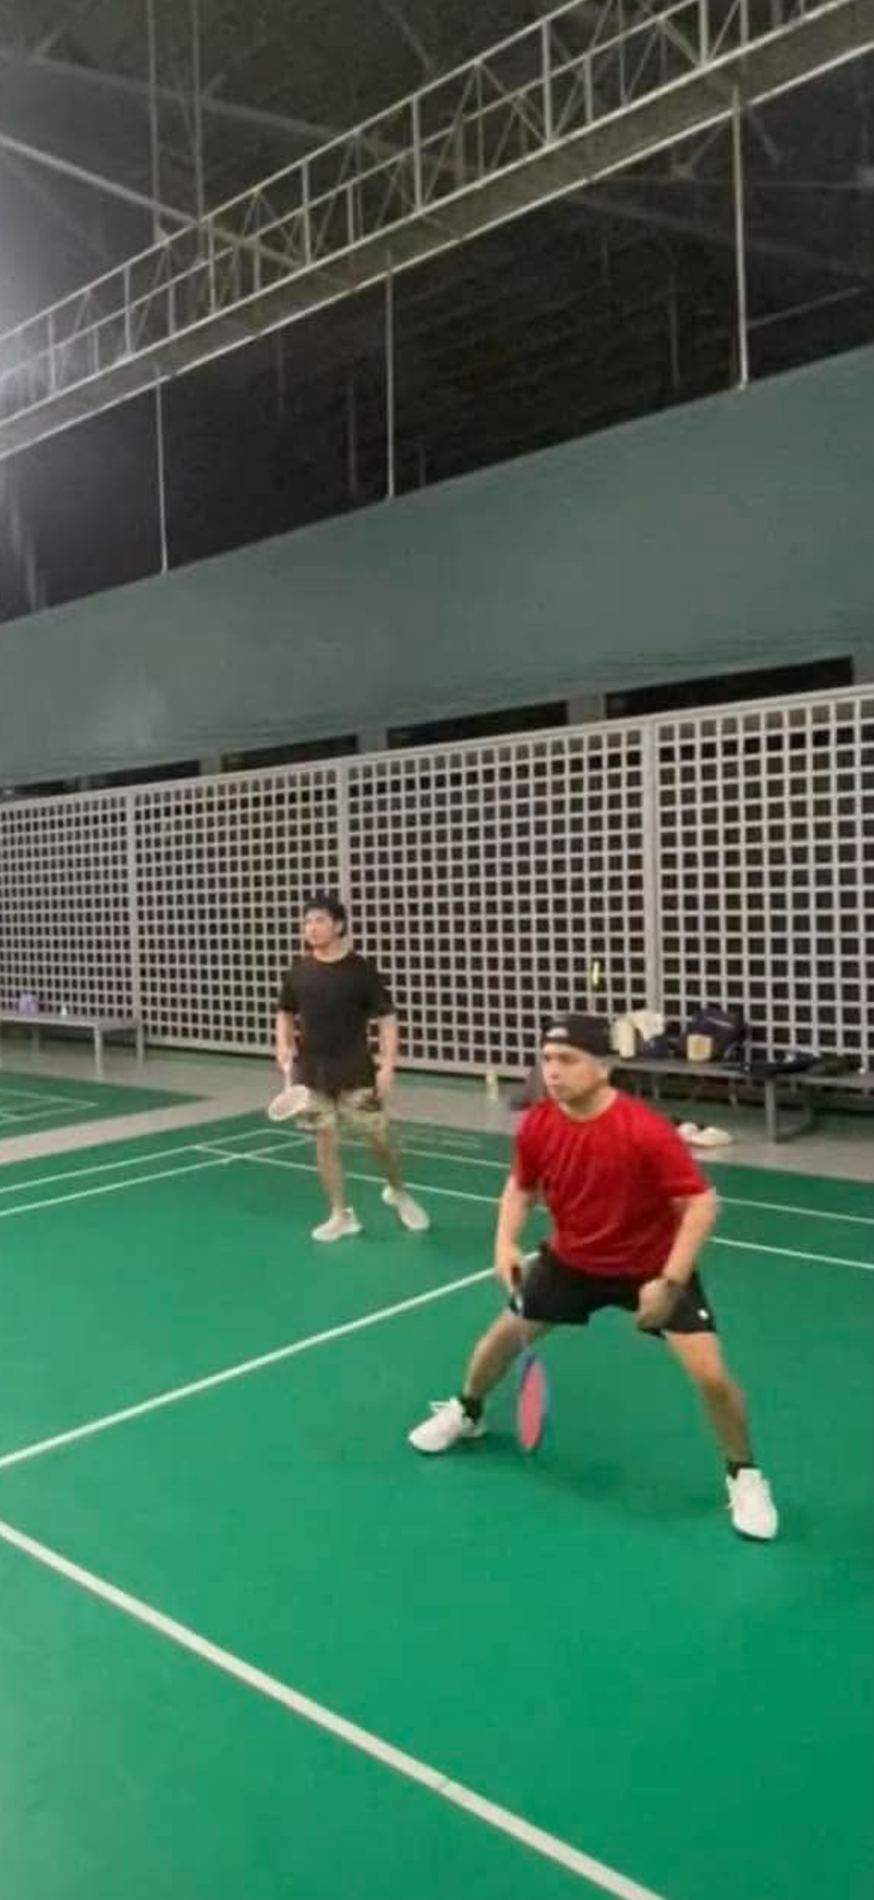
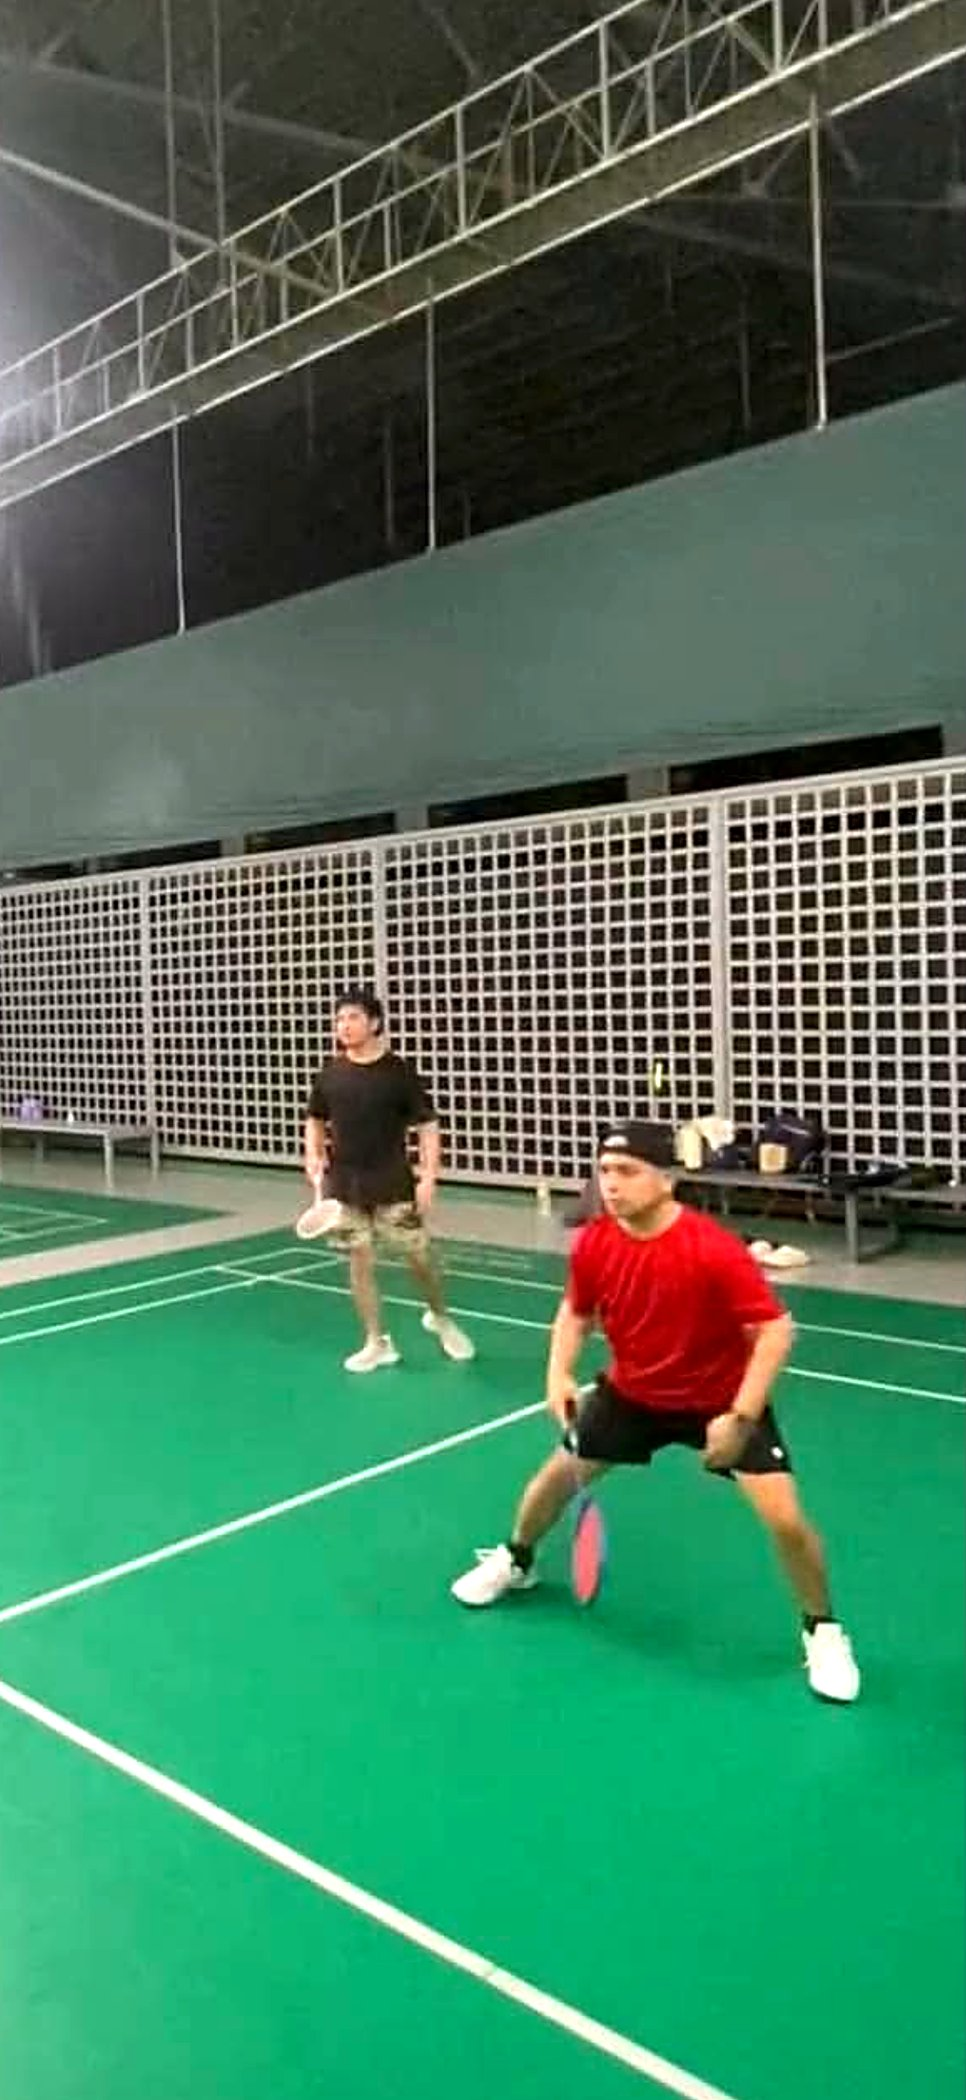
Make Players tab background photo more visible
Claude-Session: https://claude.ai/code/session_01GZsnaAcHER5TqwD1NRGPYt

diff --git a/index.html b/index.html
@@ -154,7 +154,9 @@ tr.top td.rank{color:var(--cork)}
 .note.warn{color:var(--warn);font-weight:600}
 .readonly .xbtn,.readonly #addRow,.readonly .edit-only{display:none}
 #tab-players{position:relative;isolation:isolate;margin-top:18px;padding:18px 16px 24px;border-radius:12px;overflow:hidden;background:var(--court) url("players-bg.jpg") center 70%/cover no-repeat}
-#tab-players::before{content:"";position:absolute;inset:0;z-index:-1;background:linear-gradient(180deg,color-mix(in srgb,var(--bg) 70%,transparent),color-mix(in srgb,var(--bg) 88%,transparent) 55%)}
+#tab-players::before{content:"";position:absolute;inset:0;z-index:-1;background:linear-gradient(180deg,color-mix(in srgb,var(--bg) 30%,transparent),color-mix(in srgb,var(--bg) 45%,transparent) 60%,color-mix(in srgb,var(--bg) 60%,transparent))}
+#tab-players h2,#tab-players .note,#tab-players .num,#tab-players .inline,#tab-players .sit{text-shadow:0 0 3px var(--bg),0 0 8px var(--bg),0 0 14px var(--bg)}
+#tab-players .note{color:var(--fg)}
 #tab-players .players input:not(:disabled){background:color-mix(in srgb,var(--surface) 92%,transparent)}
 .soundrow{display:flex;justify-content:space-between;align-items:center;gap:10px;flex-wrap:wrap;margin-bottom:10px}
 .soundrow h2{margin:0}
